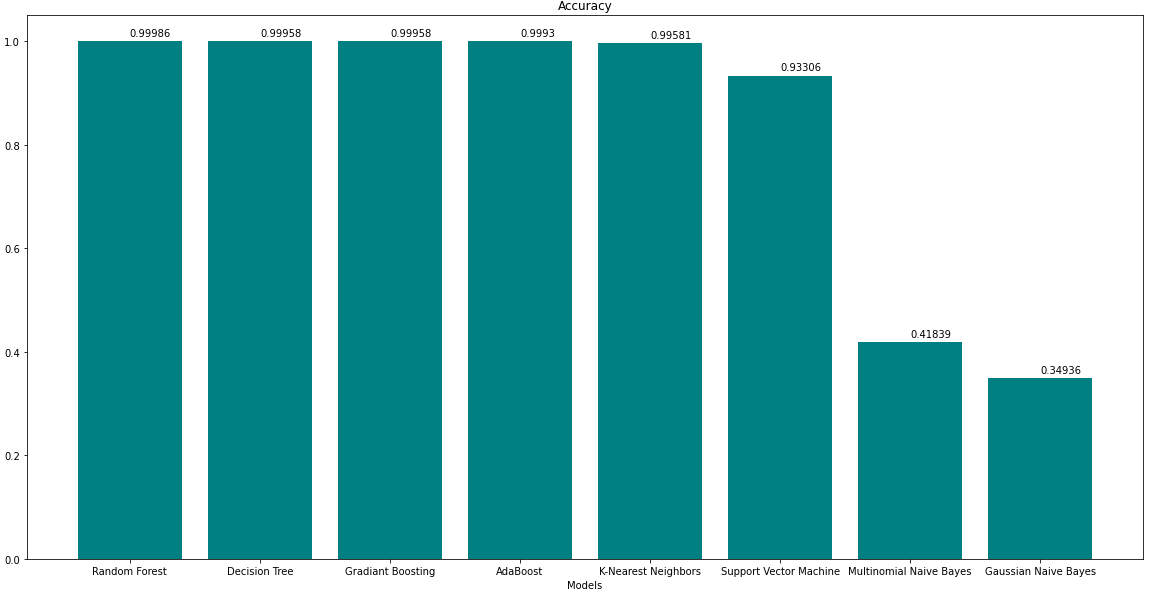
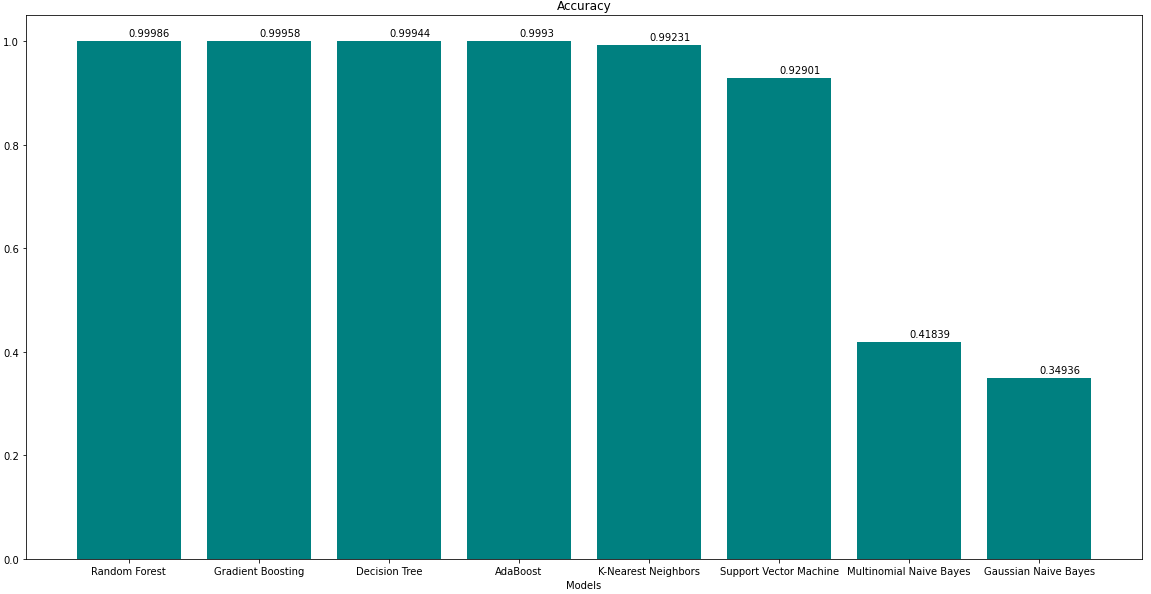
edited the images because gradient was spelt as gradiant + changed max-width to width to cover the entire card

diff --git a/dashboard/dashboard.html b/dashboard/dashboard.html
@@ -17,7 +17,7 @@
 
 <head>
   <meta charset="utf-8" />
-  <meta name="viewport" content="max-width=device-max-width, initial-scale=1, shrink-to-fit=no">
+  <meta name="viewport" content="width=device-width, initial-scale=1, shrink-to-fit=no">
   <link rel="icon" type="image/png" href="assets/img/favicon.png">
   <title>
     Dashboard
@@ -54,7 +54,7 @@
     </div>
 
   </aside>
-  <main class="main-content position-relative max-height-vh-100 h-100 border-radius-lg ">
+  <main class="main-content position-relative height-vh-100 h-100 border-radius-lg ">
     <!-- Navbar -->
     <nav class="navbar navbar-main navbar-expand-lg px-0 mx-4 shadow-none border-radius-xl" id="navbarBlur" data-scroll="true">
       <div class="container-fluid py-1 px-3">
@@ -86,7 +86,7 @@
               <hr class="dark horizontal">
               <div class="shadow-primary border-radius-lg py-3 pe-1">
 			
-				<img src="assets/img/accuracy.png" style="display: block;margin: 0 auto;display: block;margin: 0 auto;max-width:100%">
+				<img src="assets/img/accuracy.png" style="display: block;margin: 0 auto;display: block;margin: 0 auto;width:100%">
 					
               </div>
             </div>
@@ -101,7 +101,7 @@
               <hr class="dark horizontal">
               <div class="shadow-primary border-radius-lg py-3 pe-1">
 			
-				<img src="assets/img/precision.png" style="display: block;margin: 0 auto;max-width:100%">
+				<img src="assets/img/precision.png" style="display: block;margin: 0 auto;width:100%">
 					
               </div>
             </div>
@@ -117,7 +117,7 @@
               <hr class="dark horizontal">
               <div class="shadow-primary border-radius-lg py-3 pe-1">
 			
-				<img src="assets/img/recall.png" style="display: block;margin: 0 auto;max-width:100%">
+				<img src="assets/img/recall.png" style="display: block;margin: 0 auto;width:100%">
 					
               </div>
             </div>
@@ -132,7 +132,7 @@
               <hr class="dark horizontal">
               <div class="shadow-primary border-radius-lg py-3 pe-1">
 			
-				<img src="assets/img/all_scores.png" style="display: block;margin: 0 auto;max-width:100%">
+				<img src="assets/img/all_scores.png" style="display: block;margin: 0 auto;width:100%">
 					
               </div>
             </div>
@@ -147,7 +147,7 @@
               <hr class="dark horizontal">
               <div class="shadow-primary border-radius-lg py-3 pe-1">
 			
-				<img src="assets/img/processing_time.png" style="display: block;margin: 0 auto;max-width:100%">
+				<img src="assets/img/processing_time.png" style="display: block;margin: 0 auto;width:100%">
 					
               </div>
             </div>
